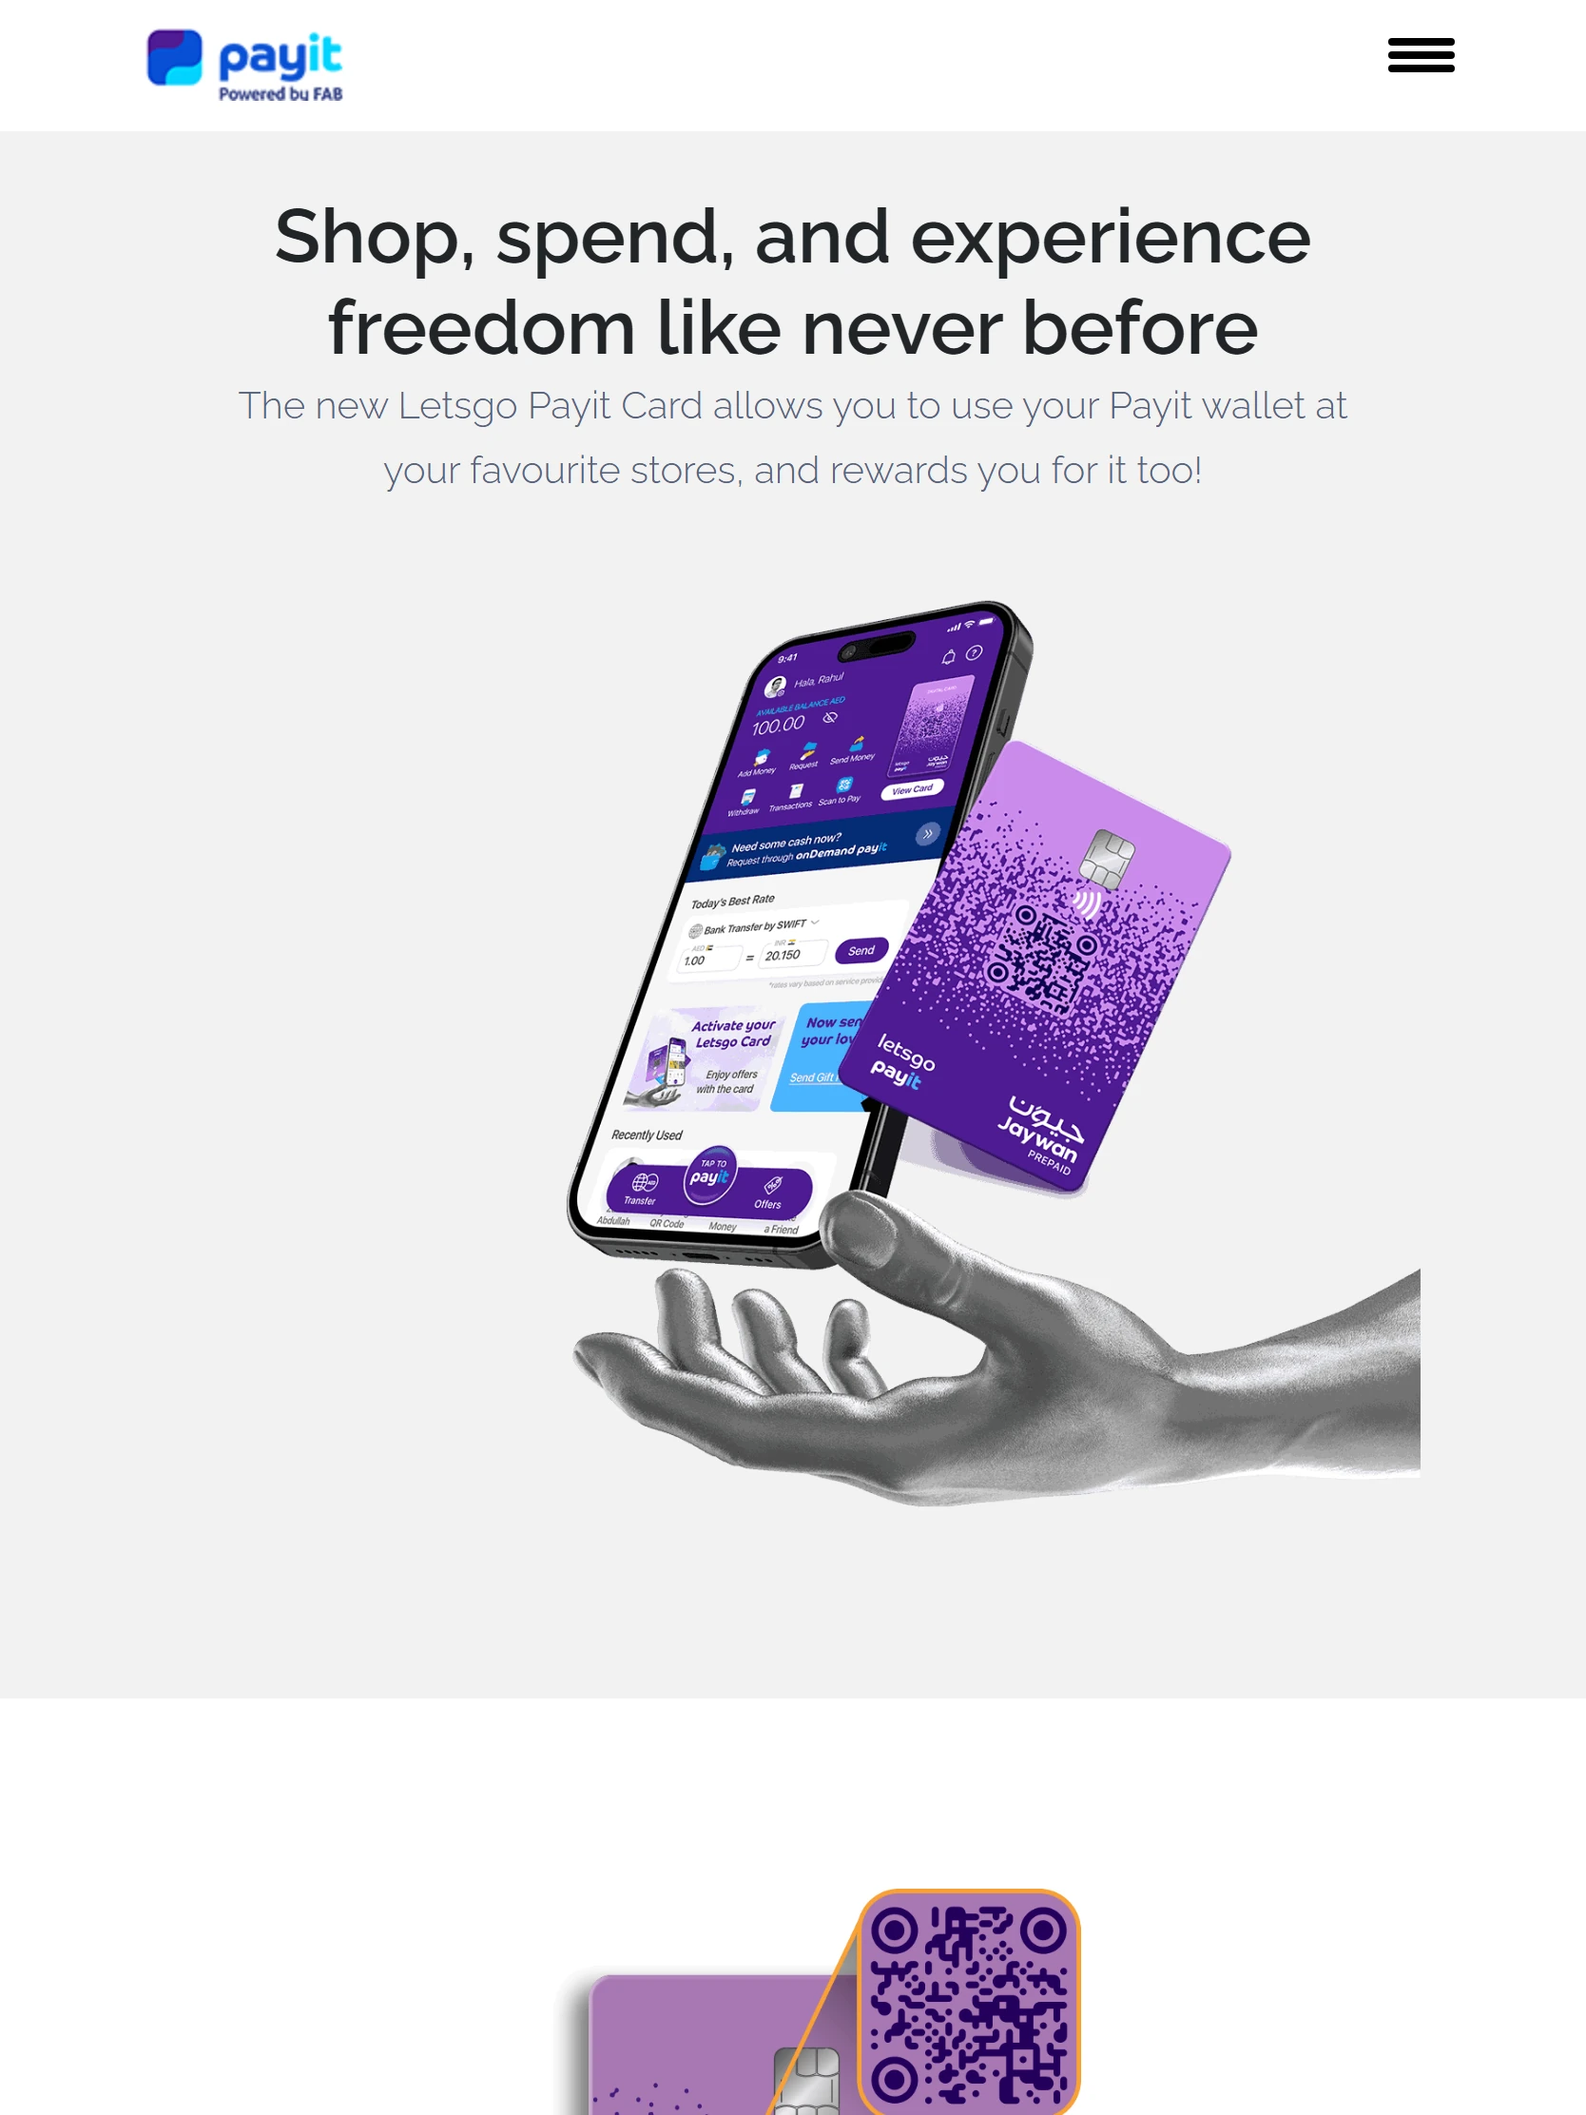
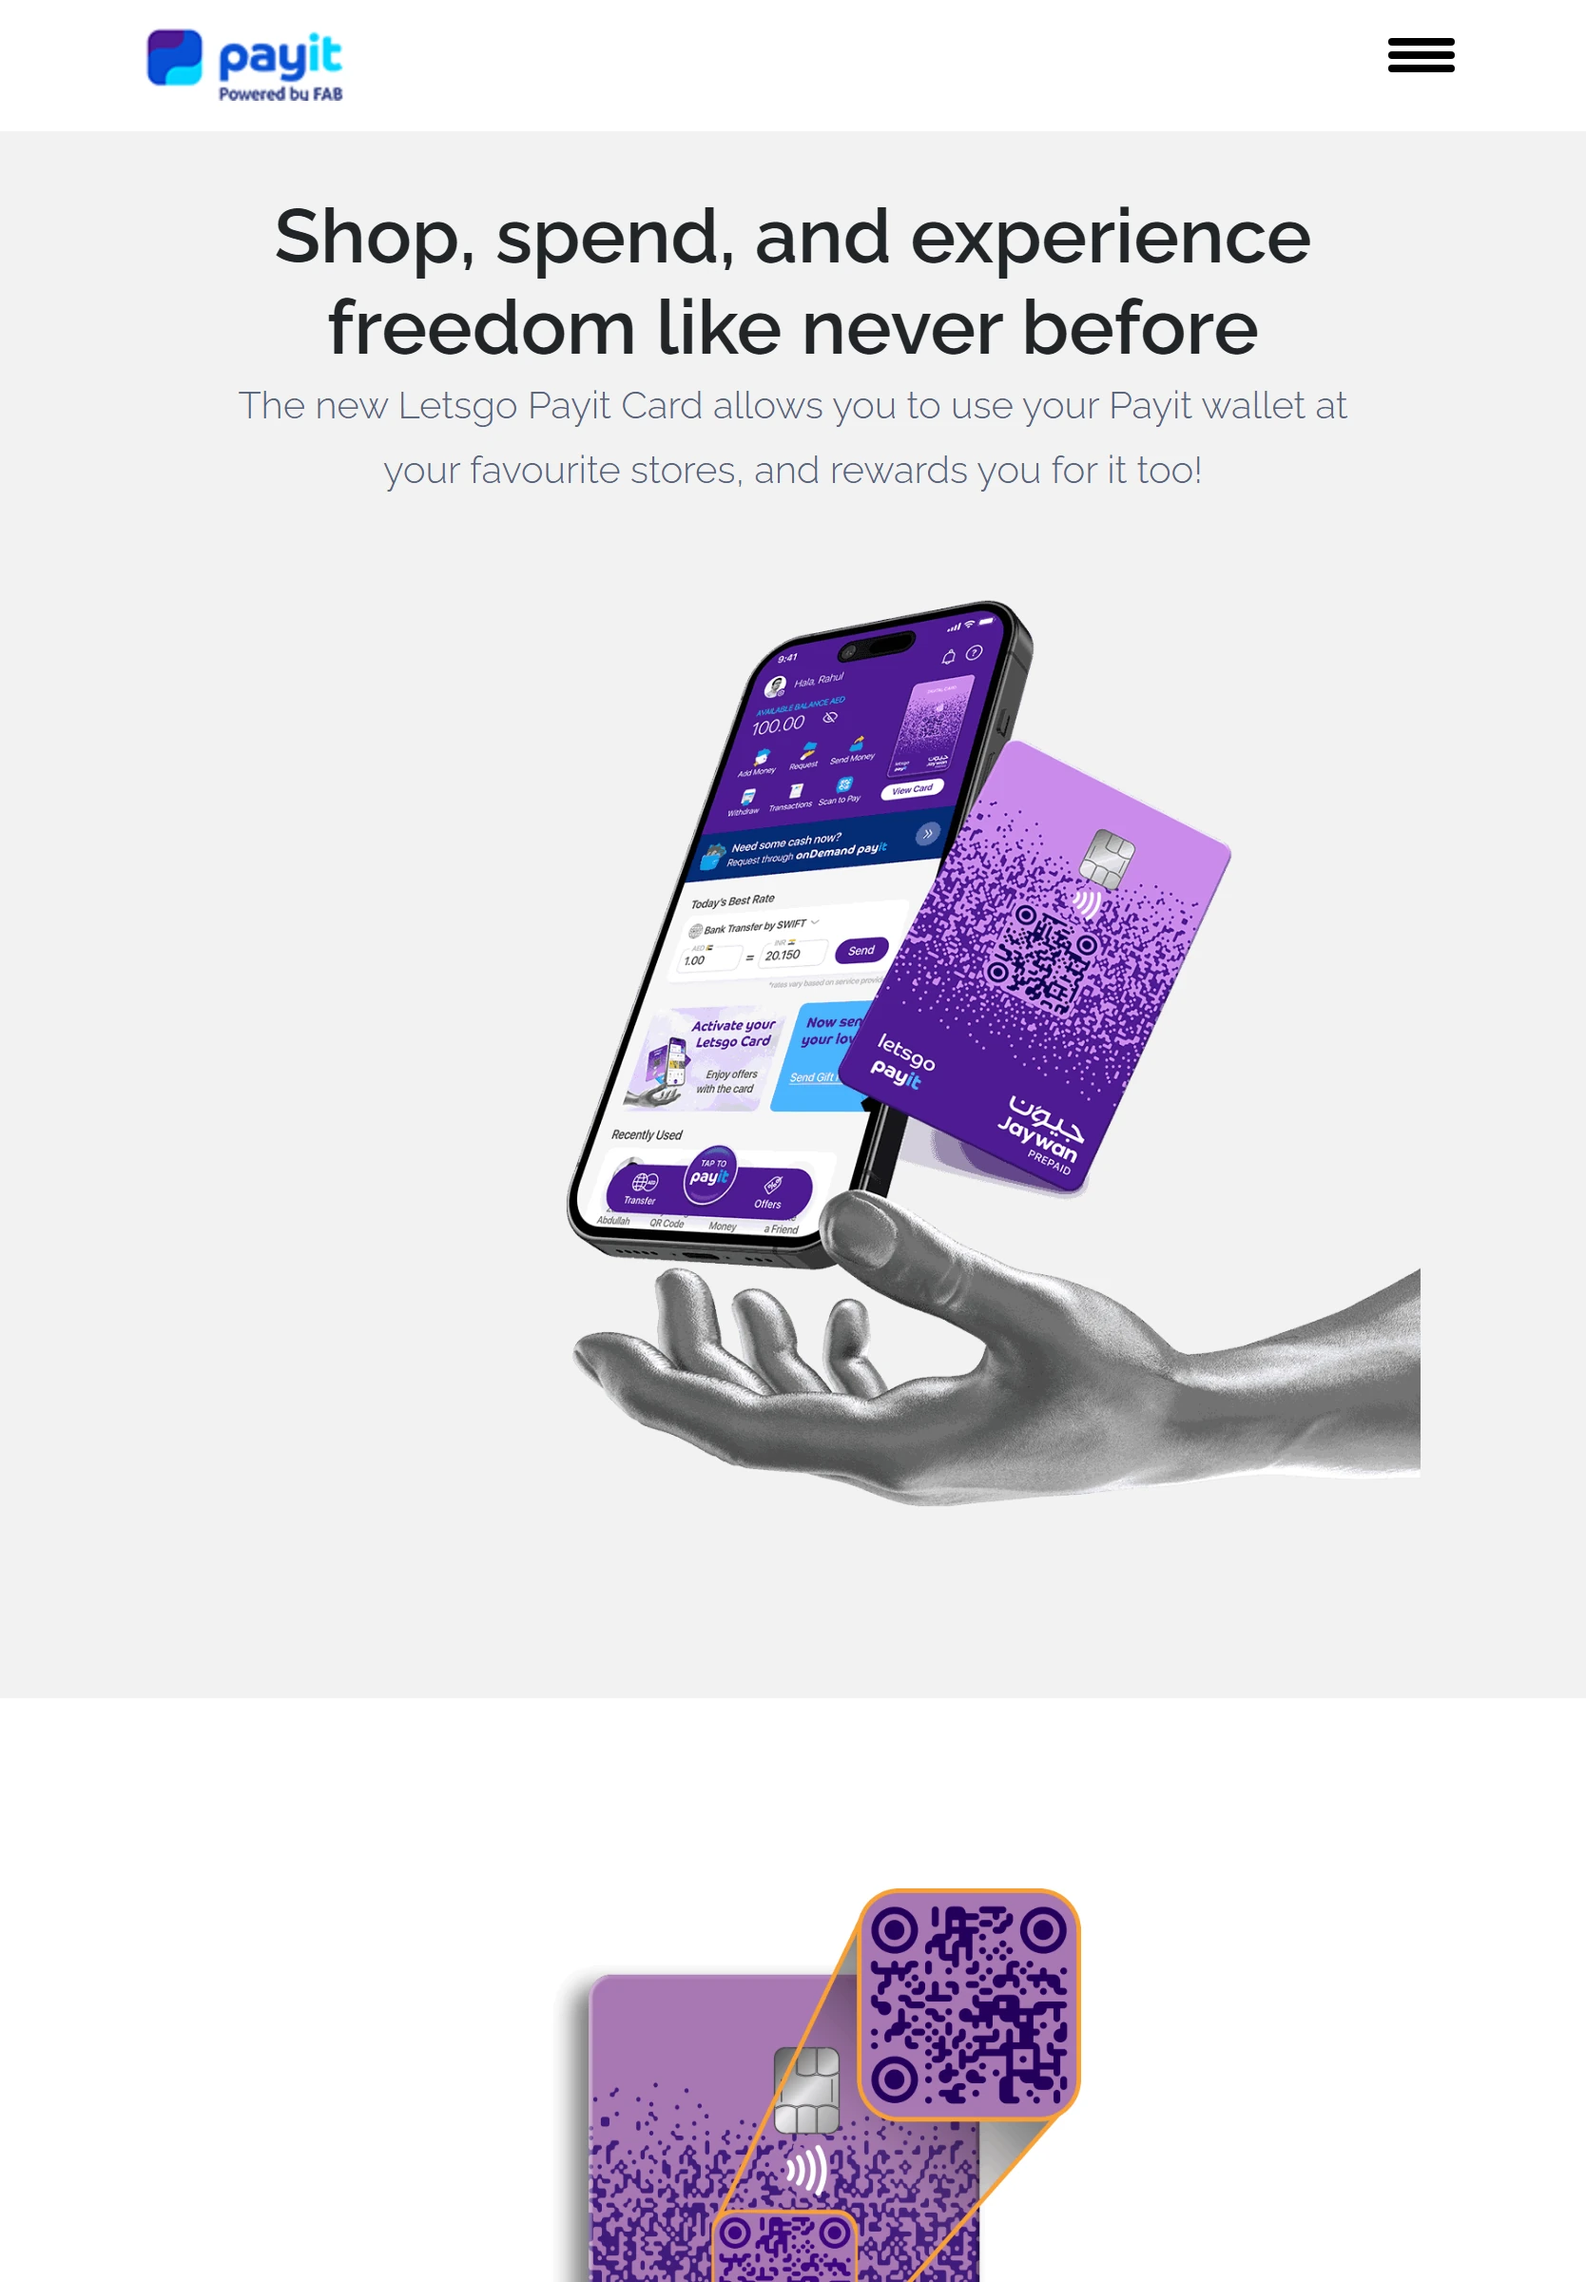
update images

diff --git a/scripts/capture-payit.js b/scripts/capture-payit.js
@@ -1,0 +1,44 @@
+const { chromium } = require('playwright');
+const sharp = require('sharp');
+const fs = require('fs');
+const path = require('path');
+
+(async function() {
+  const variants = [
+    { name: 'mobile', width: 390, height: 844, scale: 3, isMobile: true },
+    { name: 'tablet', width: 834, height: 1112, scale: 2, isMobile: false },
+    { name: 'desktop', width: 1280, height: 800, scale: 2, isMobile: false },
+    { name: 'largeDesktop', width: 1440, height: 900, scale: 2, isMobile: false },
+  ];
+  const url = 'https://letsgo.payit.ae/en/letsgocard';
+  const outDir = 'content/project-screenshots/payit-card';
+  fs.mkdirSync(outDir, { recursive: true });
+  const fileNames = { mobile: 'mobile.webp', tablet: 'tablet.webp', desktop: 'desktop.webp', largeDesktop: 'large-desktop.webp' };
+  const browser = await chromium.launch();
+  for (const v of variants) {
+    const ctx = await browser.newContext({ viewport: { width: v.width, height: v.height }, deviceScaleFactor: v.scale, isMobile: v.isMobile, hasTouch: v.isMobile, locale: 'en-US', reducedMotion: 'reduce', colorScheme: 'light' });
+    const page = await ctx.newPage();
+    await page.goto(url, { waitUntil: 'load', timeout: 60000 });
+    await page.waitForLoadState('networkidle', { timeout: 8000 }).catch(function(){});
+    await page.evaluate(function(){ return document.fonts.ready; }).catch(function(){});
+    await page.evaluate(function() {
+      var ids = ['4ebce53', 'dd01ff6'];
+      for (var i = 0; i < ids.length; i++) {
+        var el = document.querySelector('[data-id="' + ids[i] + '"]');
+        if (el) el.style.display = 'none';
+      }
+    });
+    await page.waitForTimeout(500);
+    const png = await page.screenshot({ fullPage: true, type: 'png', animations: 'disabled' });
+    const meta = await sharp(png).metadata();
+    const cropH = Math.min(1200 * v.scale, meta.height);
+    const cropped = await sharp(png).extract({ left: 0, top: 0, width: meta.width, height: cropH }).toBuffer();
+    const webp = await sharp(cropped).webp({ quality: 90, effort: 6 }).toBuffer();
+    fs.writeFileSync(path.join(outDir, fileNames[v.name]), webp);
+    const m = await sharp(webp).metadata();
+    console.log(v.name, '->', m.width + 'x' + m.height, (webp.length/1024).toFixed(0) + 'KB');
+    await ctx.close();
+  }
+  await browser.close();
+  console.log('DONE');
+})();
